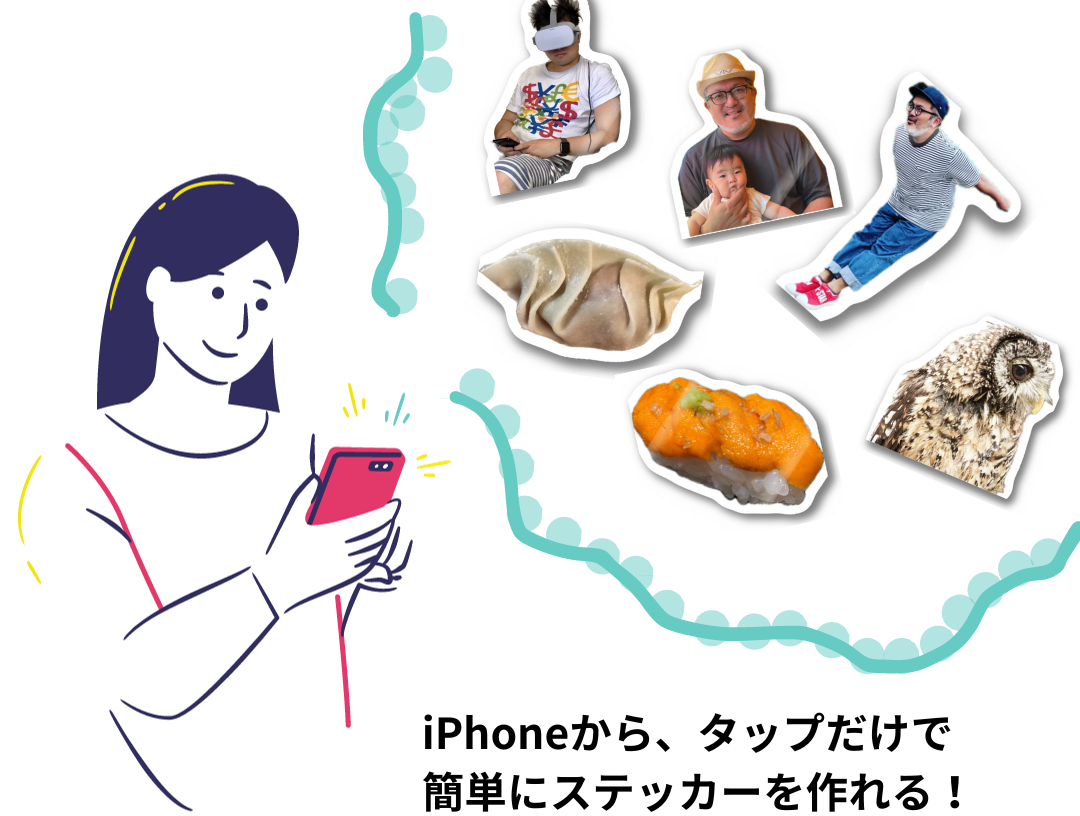
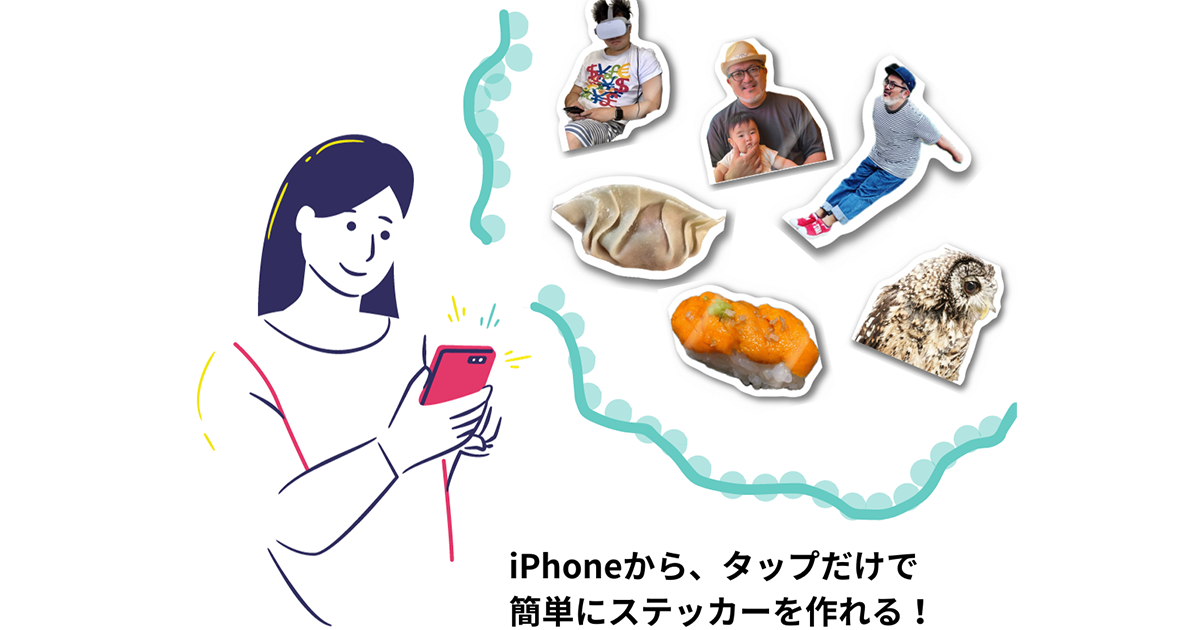
OGPを設定する

diff --git a/src/app/layout.tsx b/src/app/layout.tsx
@@ -22,7 +22,14 @@ export default function RootLayout({
   children: React.ReactNode;
 }) {
   return (
-    <html lang="en">
+    <html>
+      <head>
+        <meta property="og:image:alt" content={config.title} />
+        <meta property="og:image:type" content="image/png" />
+        <meta property="og:image" content="/hero.png" />
+        <meta property="og:image:width" content="1200" />
+        <meta property="og:image:height" content="630" />
+      </head>
       <body
         className={cn(
           "min-h-screen bg-background font-sans antialiased",
